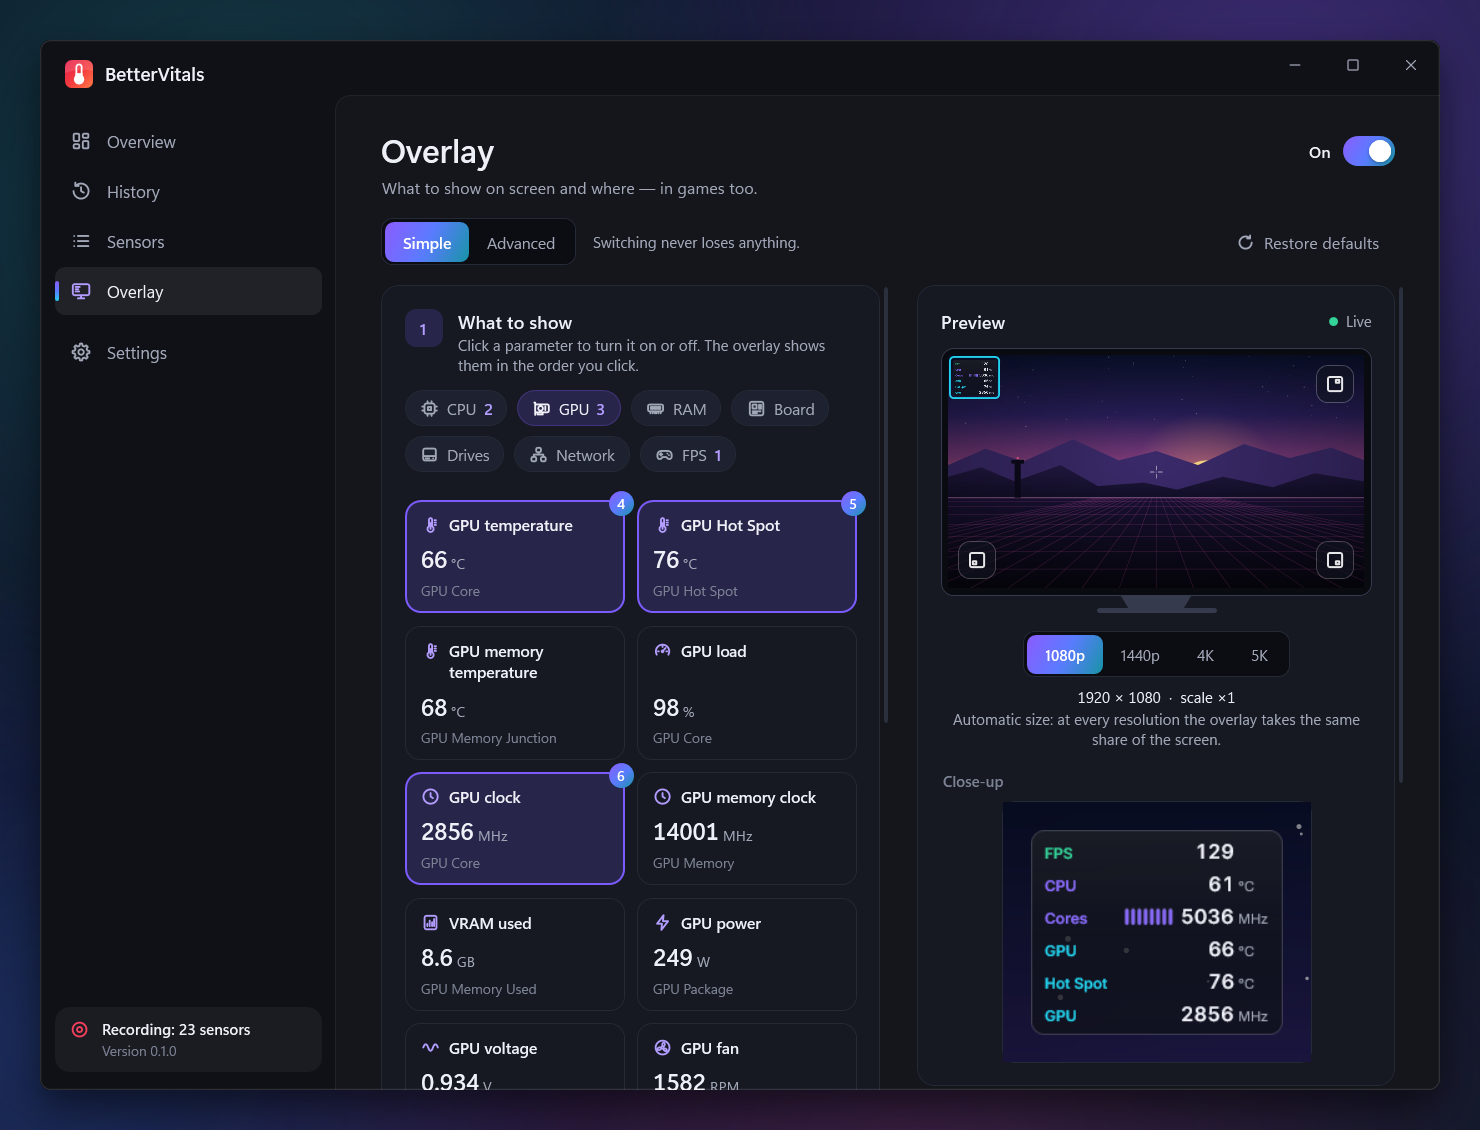
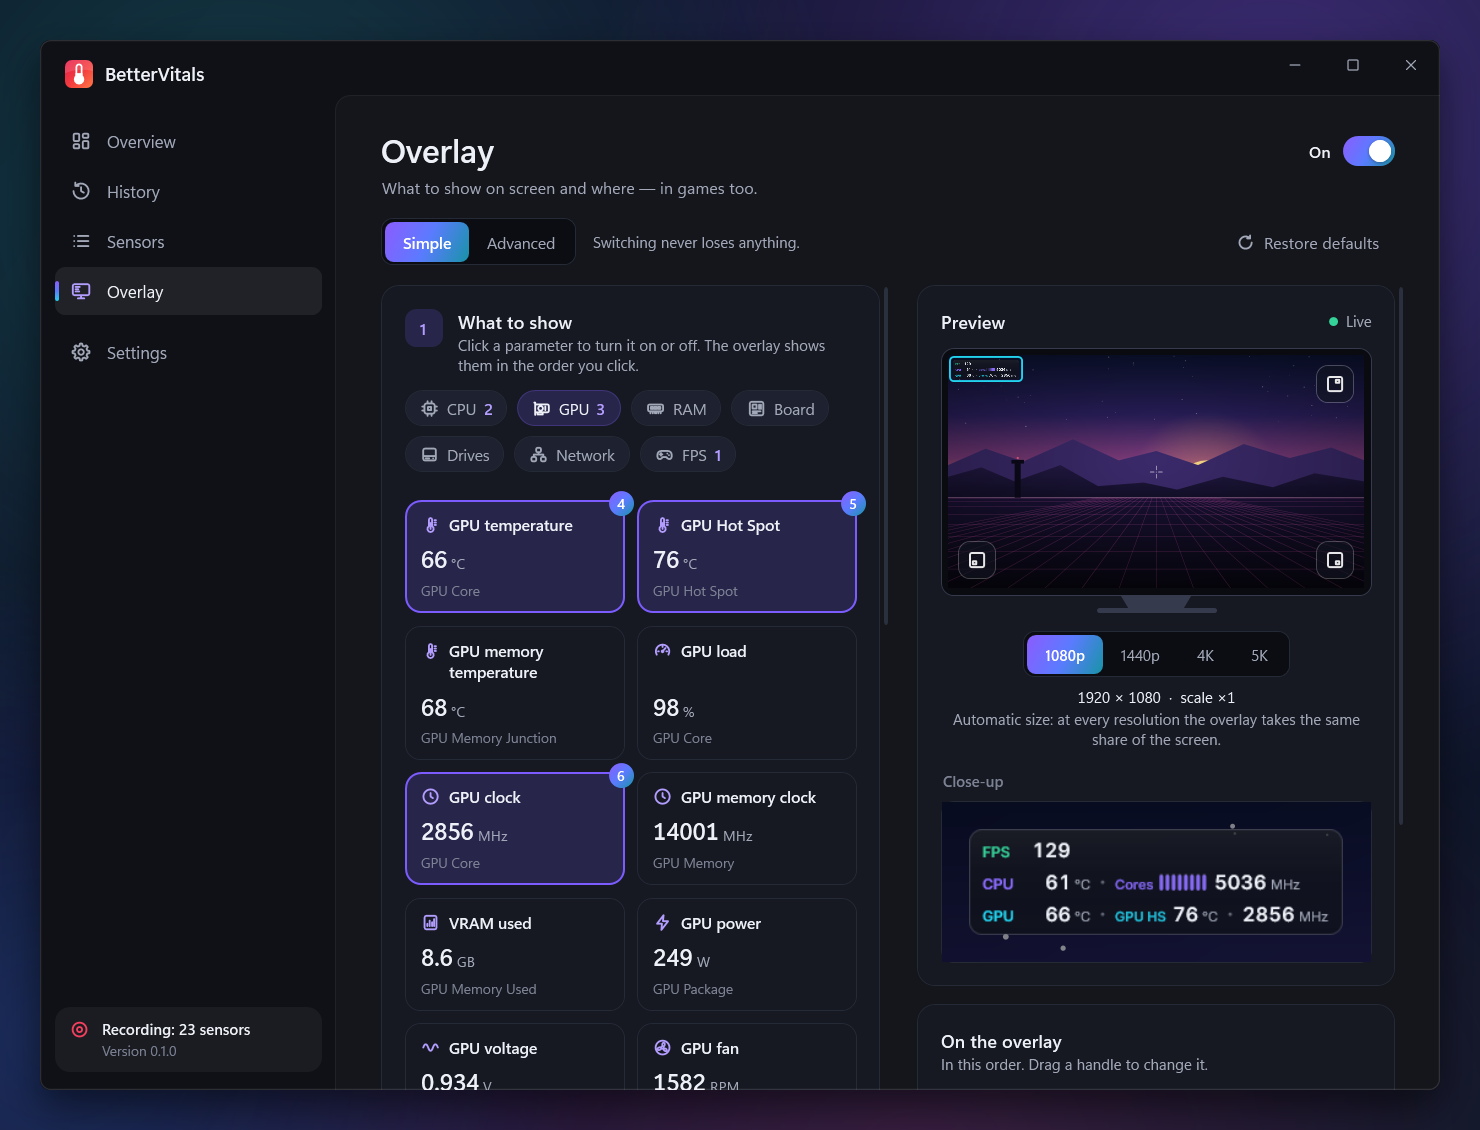
README: overlay pictures in rows

Changed region(s): [[0.6527, 0.7434, 0.9014, 0.9602], [0.6527, 0.3097, 0.6838, 0.3407]]

diff --git a/README.md b/README.md
@@ -14,13 +14,13 @@ Choose what to record and browse it on charts. Drag across a range to get its mi
 
 The values you pick, on top of any game or app. It draws in its own window, nothing is injected into the game, and it stays out of streams and recordings.
 
-![The overlay in a game: FPS with a small graph, CPU temperature and core clocks, GPU temperature, GPU Hot Spot and GPU clock](media/overlay.png)
+![The overlay in a game, one row per component: FPS with a small graph; CPU temperature and core clocks; GPU temperature, GPU Hot Spot and GPU clock](media/overlay.png)
 
 ## Set it up in a minute
 
 Click the values you want, then pick a layout (a list, a row per component or one line) and a corner; the preview shows the result. Advanced mode changes fonts, colors and sizes, moves single values between rows and detaches them into boxes of their own anywhere on the screen.
 
-![The overlay editor in simple mode: GPU values picked as tiles, a live preview on a monitor and a close-up of the overlay](media/overlay-editor.png)
+![The overlay editor in simple mode: GPU values picked as tiles, a live preview on a monitor and a close-up of the overlay in rows](media/overlay-editor.png)
 
 ## Sensors
 
